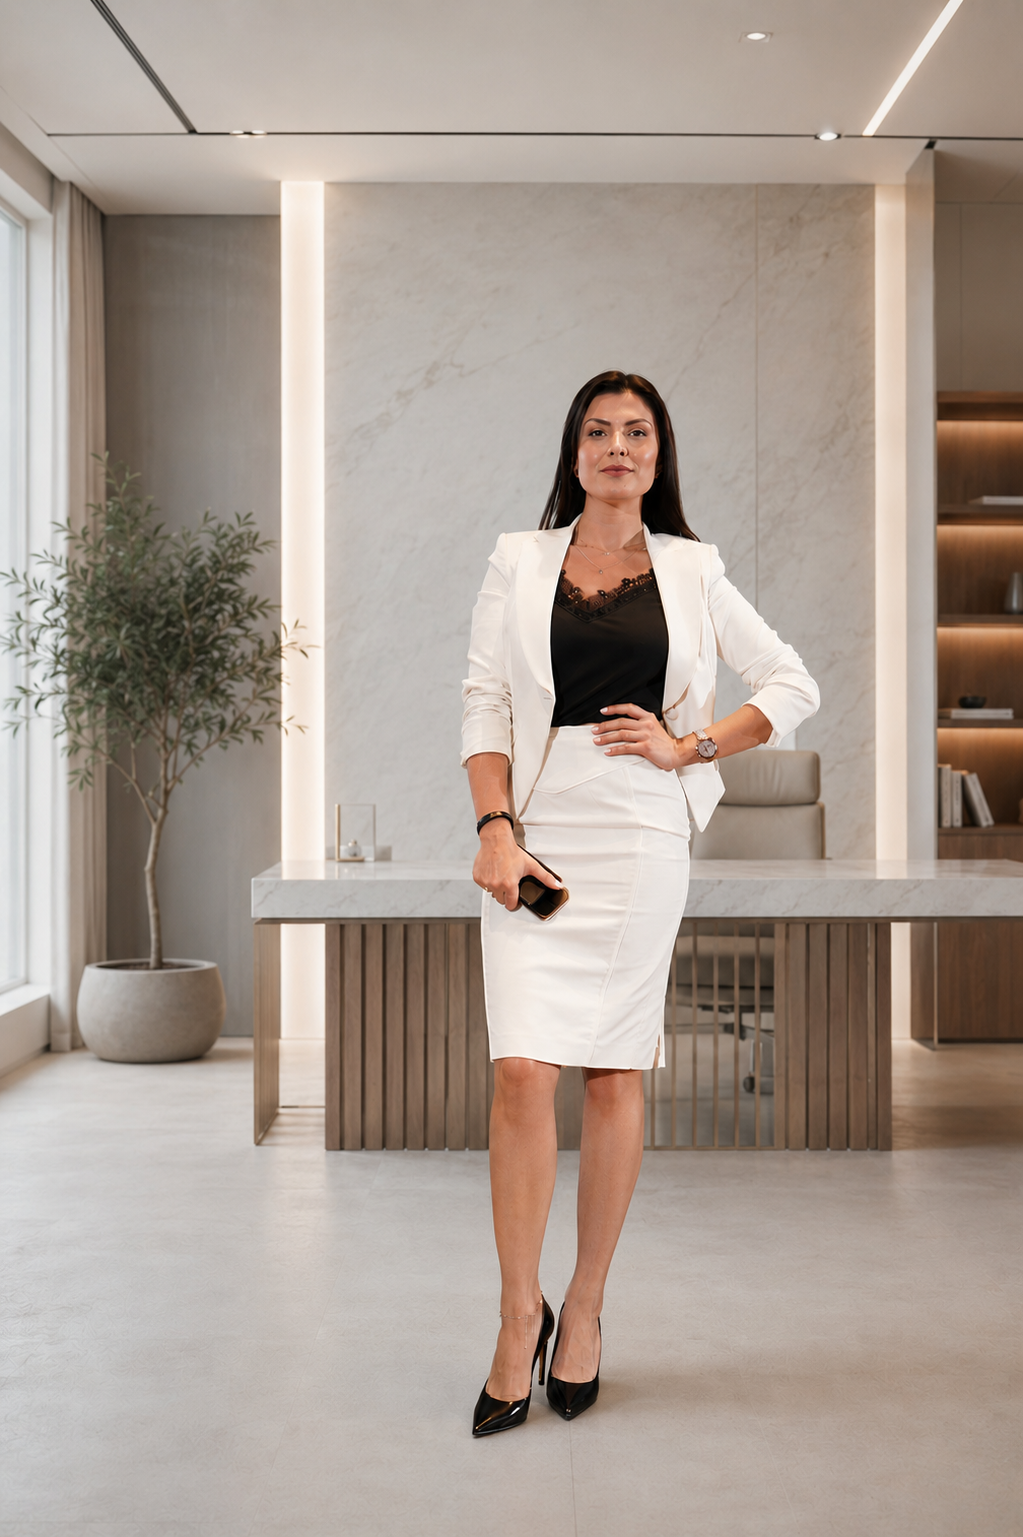
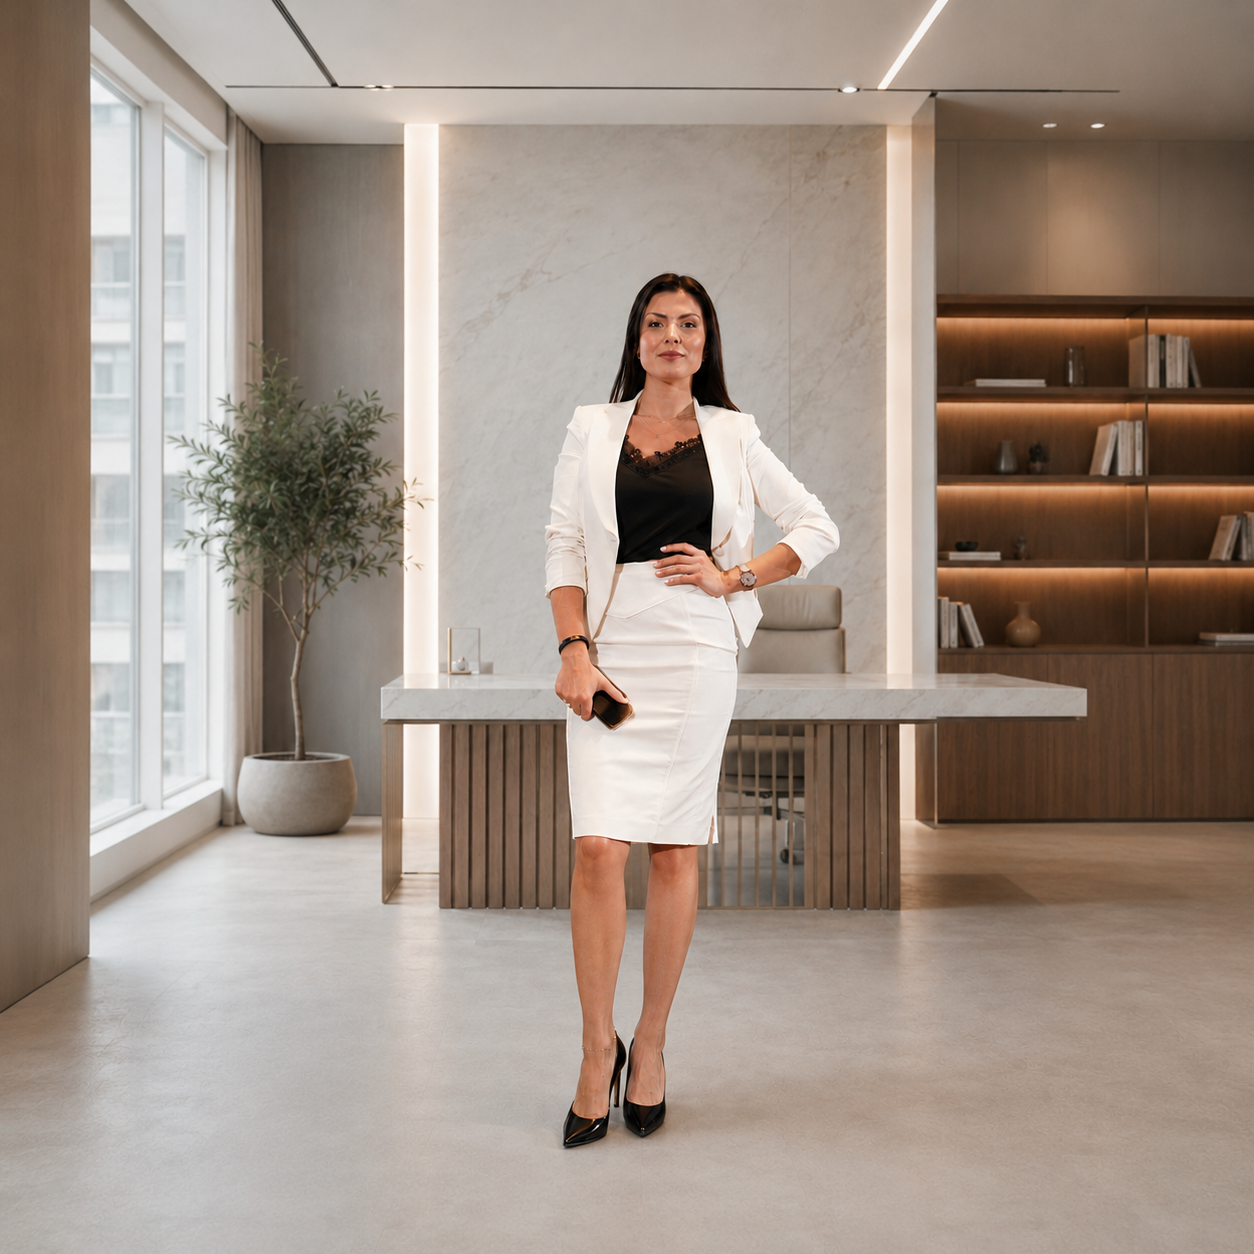
Apply client review round 2: update translations, hide eyebrows, add type images, reorder sections
- Update uk.json/en.json with all client text corrections across markets
- Add expand/collapse for About section text
- Comment out all section eyebrows (preserving for easy restore)
- Replace gradient placeholders with real property type images
- Move ParallaxCta between Services and WhySafeera
- Update parallax background image
- Remove v1.0 badge from footer
- Update Dubai dark section to 3 rows
- Add market images (types-cy, types-ge, types-ae, matt images)

diff --git a/src/components/Partners.tsx b/src/components/Partners.tsx
@@ -51,22 +51,13 @@ export default function Partners() {
         ) : (
           <div className="grid grid-cols-1 lg:grid-cols-2 gap-[clamp(40px,6vw,88px)]">
             <div>
-              <div className="eyebrow text-lime mb-[22px]">{t('partnersEyebrow')}</div>
-              <h2 className="font-cormorant font-normal text-[clamp(38px,5.2vw,72px)] leading-[1.02] tracking-[-0.015em] mb-6">
-                {t('partnersTitle')}
-              </h2>
-              <p className="text-[clamp(16px,1.15vw,18px)] leading-relaxed font-light opacity-80 max-w-[460px] mb-10">
-                {t('partnersBody')}
+              <h3 className="font-cormorant font-normal text-[clamp(38px,5.2vw,72px)] leading-[1.02] tracking-[-0.015em] mb-4">
+                {t('partnerCtaTitle')}
+              </h3>
+              <p className="text-[clamp(16px,1.15vw,18px)] leading-relaxed font-light opacity-80 max-w-[460px] mb-8">
+                {t('partnerCtaBody')}
               </p>
-              <div className="border-t border-off-white/15 pt-8">
-                <h3 className="font-cormorant font-normal text-[clamp(26px,2.4vw,36px)] leading-[1.08] tracking-[-0.01em] mb-3">
-                  {t('partnerCtaTitle')}
-                </h3>
-                <p className="text-[clamp(15px,1.1vw,17px)] leading-relaxed font-light opacity-70 max-w-[400px] mb-5">
-                  {t('partnerCtaBody')}
-                </p>
-                <a href="mailto:[email redacted]" className="text-sm opacity-70 hover:opacity-100 transition-opacity">[email redacted]</a>
-              </div>
+              <a href="mailto:[email redacted]" className="text-sm opacity-70 hover:opacity-100 transition-opacity">[email redacted]</a>
             </div>
 
             <form onSubmit={handleSubmit} noValidate className="flex flex-col gap-5">

diff --git a/src/components/About.tsx b/src/components/About.tsx
@@ -7,6 +7,7 @@ import Image from 'next/image';
 export default function About() {
   const t = useTranslations('sections');
   const [activeSlide, setActiveSlide] = useState(0);
+  const [expanded, setExpanded] = useState(false);
 
   useEffect(() => {
     const interval = setInterval(() => {
@@ -58,7 +59,7 @@ export default function About() {
 
           {/* Copy */}
           <div>
-            <div className="eyebrow mb-7">{t('aboutEyebrow')}</div>
+            {/* <div className="eyebrow mb-7">{t('aboutEyebrow')}</div> */}
             <h2 className="font-cormorant font-normal text-[clamp(38px,5.2vw,72px)] leading-[1.02] tracking-[-0.015em] mb-6">
               {t('aboutTitle')}
             </h2>
@@ -71,9 +72,20 @@ export default function About() {
               ))}
             </ul>
 
-            <p className="text-[clamp(16px,1.15vw,18px)] leading-relaxed font-light mb-4 max-w-[540px]">{t('aboutP1')}</p>
-            <p className="text-[clamp(16px,1.15vw,18px)] leading-relaxed font-light mb-4 max-w-[540px]">{t('aboutP2')}</p>
-            <p className="text-[clamp(16px,1.15vw,18px)] leading-relaxed font-light mb-4 max-w-[540px]">{t('aboutP3')}</p>
+            <p className="text-[clamp(16px,1.15vw,18px)] leading-relaxed font-light mb-4 max-w-[540px]">{t('aboutP1visible')}</p>
+            <div className={`grid transition-[grid-template-rows] duration-500 ease-out ${expanded ? 'grid-rows-[1fr]' : 'grid-rows-[0fr]'}`}>
+              <div className="overflow-hidden">
+                <p className="text-[clamp(16px,1.15vw,18px)] leading-relaxed font-light mb-4 max-w-[540px]">{t('aboutP1hidden')}</p>
+                <p className="text-[clamp(16px,1.15vw,18px)] leading-relaxed font-light mb-4 max-w-[540px]">{t('aboutP2')}</p>
+                <p className="text-[clamp(16px,1.15vw,18px)] leading-relaxed font-light mb-4 max-w-[540px]">{t('aboutP3')}</p>
+              </div>
+            </div>
+            <button
+              onClick={() => setExpanded(!expanded)}
+              className="text-[13px] font-medium tracking-[0.1em] uppercase text-forest/60 hover:text-forest transition-colors mt-1"
+            >
+              {expanded ? t('aboutCollapse') : t('aboutExpand')}
+            </button>
 
           </div>
         </div>

diff --git a/src/components/MarketPageContent.tsx b/src/components/MarketPageContent.tsx
@@ -13,6 +13,12 @@ const heroImages: Record<MarketKey, string> = {
   ae: '/images/dubai.jpg',
 };
 
+const typeImages: Record<MarketKey, string[]> = {
+  cy: ['/images/types-cy/residential.png', '/images/types-cy/branded.png', '/images/types-cy/commercial.png', '/images/types-cy/offplan.png'],
+  ge: ['/images/types-ge/batumi.png', '/images/types-ge/tbilisi.png', '/images/types-ge/commercial.png', '/images/types-ge/mountain.png'],
+  ae: ['/images/types-ae/downtown.png', '/images/types-ae/branded.png', '/images/types-ae/offplan.png', '/images/types-ae/villas.png'],
+};
+
 export default function MarketPageContent({market, hiddenMarketValue}: {market: MarketKey; hiddenMarketValue: string}) {
   const t = useTranslations(market);
   const tf = useTranslations('formClient');
@@ -56,7 +62,7 @@ export default function MarketPageContent({market, hiddenMarketValue}: {market: 
     label: t(`f${i}`),
   }));
 
-  const darkRowCountMap: Record<MarketKey, number> = {cy: 3, ge: 4, ae: 4};
+  const darkRowCountMap: Record<MarketKey, number> = {cy: 3, ge: 4, ae: 3};
   const darkRowCount = darkRowCountMap[market];
   const darkRows = Array.from({length: darkRowCount}, (_, i) => i + 1).map(i => ({
     tag: t(`d${i}tag`),
@@ -115,7 +121,7 @@ export default function MarketPageContent({market, hiddenMarketValue}: {market: 
         <div className="max-w-7xl mx-auto px-6">
           <div className="grid md:grid-cols-2 gap-12 mb-16">
             <div>
-              <div className="text-xs uppercase tracking-[0.2em] text-forest/50 mb-5">{t('whyEye')}</div>
+              {/* <div className="text-xs uppercase tracking-[0.2em] text-forest/50 mb-5">{t('whyEye')}</div> */}
               <h2 className="font-cormorant text-3xl md:text-5xl font-light text-forest">{t('whyTitle')}</h2>
             </div>
             <div className="flex items-end">
@@ -140,14 +146,14 @@ export default function MarketPageContent({market, hiddenMarketValue}: {market: 
       <section className="bg-white py-20 md:py-28">
         <div className="max-w-7xl mx-auto px-6">
           <div className="mb-12">
-            <div className="text-xs uppercase tracking-[0.2em] text-forest/50 mb-5">{t('typesEye')}</div>
+            {/* <div className="text-xs uppercase tracking-[0.2em] text-forest/50 mb-5">{t('typesEye')}</div> */}
             <h2 className="font-cormorant text-3xl md:text-5xl font-light text-forest">{t('typesTitle')}</h2>
           </div>
           <div className="grid sm:grid-cols-2 lg:grid-cols-4 gap-6">
             {types.map((tp, i) => (
               <div key={i} className="group">
-                <div className="aspect-[4/3] bg-gradient-to-br from-forest/10 to-forest/5 rounded-sm mb-4 flex items-center justify-center">
-                  <span className="text-forest/30 text-xs uppercase tracking-wider">{tp.cat}</span>
+                <div className="aspect-[4/3] rounded-sm mb-4 overflow-hidden">
+                  <img src={typeImages[market][i]} alt={tp.title} className="w-full h-full object-cover" />
                 </div>
                 <div className="text-xs uppercase tracking-wider text-forest/50 mb-1">{tp.cat}</div>
                 <h4 className="text-forest font-semibold mb-1">{tp.title}</h4>
@@ -163,7 +169,7 @@ export default function MarketPageContent({market, hiddenMarketValue}: {market: 
         <div className="max-w-7xl mx-auto px-6">
           <div className="grid md:grid-cols-2 gap-16">
             <div>
-              <div className="text-xs uppercase tracking-[0.2em] text-lime mb-5">{t('darkEye')}</div>
+              {/* <div className="text-xs uppercase tracking-[0.2em] text-lime mb-5">{t('darkEye')}</div> */}
               <h2 className="font-cormorant text-3xl md:text-5xl font-light mb-6">{t('darkTitle')}</h2>
               <p className="text-white/70 font-light leading-relaxed">{t('darkBody')}</p>
               {market === 'ge' && (
@@ -192,7 +198,7 @@ export default function MarketPageContent({market, hiddenMarketValue}: {market: 
         <div className="max-w-7xl mx-auto px-6">
           <div className="grid md:grid-cols-2 gap-16">
             <div>
-              <div className="text-xs uppercase tracking-[0.2em] text-forest/50 mb-5">{t('formEye')}</div>
+              {/* <div className="text-xs uppercase tracking-[0.2em] text-forest/50 mb-5">{t('formEye')}</div> */}
               <h2 className="font-cormorant text-3xl md:text-5xl font-light text-forest mb-6">{t('formTitle')}</h2>
               <p className="text-forest/70 text-lg font-light mb-8">{t('formBody')}</p>
               <div className="space-y-2">

diff --git a/src/components/Markets.tsx b/src/components/Markets.tsx
@@ -17,7 +17,7 @@ export default function Markets() {
       <div className="max-w-[1440px] mx-auto">
         <div className="grid grid-cols-1 lg:grid-cols-2 gap-10 mb-[clamp(48px,6vw,80px)] items-end">
           <div>
-            <div className="eyebrow mb-[22px]">{t('sections.marketsEyebrow')}</div>
+            {/* <div className="eyebrow mb-[22px]">{t('sections.marketsEyebrow')}</div> */}
             <h2 className="font-cormorant font-normal text-[clamp(38px,5.2vw,72px)] leading-[1.02] tracking-[-0.015em]">
               {t('sections.marketsTitle')}
             </h2>
@@ -46,9 +46,9 @@ export default function Markets() {
               <div className="absolute inset-0 bg-black/30 group-hover:bg-black/60 transition-all duration-500" />
 
               {/* Index + Flag */}
-              <span className="absolute top-5 left-5 text-[10px] tracking-[0.22em] uppercase text-white/50 z-10">
+              {/* <span className="absolute top-5 left-5 text-[10px] tracking-[0.22em] uppercase text-white/50 z-10">
                 {market.index} / Market
-              </span>
+              </span> */}
               <span className="absolute top-5 right-5 text-[11px] tracking-[0.18em] uppercase text-white/70 font-medium z-10">
                 {market.flag}
               </span>

diff --git a/src/components/ClientForm.tsx b/src/components/ClientForm.tsx
@@ -10,7 +10,7 @@ export default function ClientForm() {
   const [loading, setLoading] = useState(false);
   const [selectedMarket, setSelectedMarket] = useState(0);
 
-  const markets = [t('market1'), t('market2'), t('market3'), t('market4')];
+  const markets = [t('market1'), t('market2'), t('market3'), t('market4'), t('market5')];
 
   async function handleSubmit(e: React.FormEvent<HTMLFormElement>) {
     e.preventDefault();
@@ -56,7 +56,7 @@ export default function ClientForm() {
     <section id="client-form-section" className="bg-white text-forest py-[clamp(72px,9vw,140px)] px-[clamp(20px,5vw,80px)]">
       <div className="max-w-[1440px] mx-auto grid grid-cols-1 lg:grid-cols-2 gap-[clamp(40px,6vw,88px)]">
         <div>
-          <div className="eyebrow mb-[22px]">{ts('clientFormEyebrow')}</div>
+          {/* <div className="eyebrow mb-[22px]">{ts('clientFormEyebrow')}</div> */}
           <h2 className="font-cormorant font-normal text-[clamp(38px,5.2vw,72px)] leading-[1.02] tracking-[-0.015em] mb-6">
             {ts('clientFormTitle')}
           </h2>

diff --git a/src/components/Footer.tsx b/src/components/Footer.tsx
@@ -43,9 +43,8 @@ export default function Footer() {
         </div>
       </div>
 
-      <div className="border-t border-off-white/10 pt-6 flex flex-col sm:flex-row justify-between items-center gap-4 text-[11px] opacity-40 tracking-[0.06em]">
+      <div className="border-t border-off-white/10 pt-6 flex justify-center items-center gap-4 text-[11px] opacity-40 tracking-[0.06em]">
         <span>{t('copy')}</span>
-        <span>v1.0 · 2026</span>
       </div>
     </footer>
   );

diff --git a/src/app/[locale]/page.tsx b/src/app/[locale]/page.tsx
@@ -17,8 +17,8 @@ export default function HomePage() {
       <About />
       <Markets />
       <Services />
-      <WhySafeera />
       <ParallaxCta />
+      <WhySafeera />
       <MidsiteVideo />
       <Partners />
       <ClientForm />

diff --git a/src/components/ParallaxCta.tsx b/src/components/ParallaxCta.tsx
@@ -10,7 +10,7 @@ export default function ParallaxCta() {
       {/* Parallax background */}
       <div
         className="absolute inset-0 bg-fixed bg-center bg-cover"
-        style={{backgroundImage: 'url(/images/parallax.jpg)'}}
+        style={{backgroundImage: 'url(/images/parallax-cta.png)'}}
       />
       <div className="absolute inset-0 bg-black/50" />
 

diff --git a/src/components/Services.tsx b/src/components/Services.tsx
@@ -11,7 +11,7 @@ export default function Services() {
     <section id="services" className="bg-white text-forest py-[clamp(72px,9vw,140px)] px-[clamp(20px,5vw,80px)]">
       <div className="max-w-[1440px] mx-auto">
         <div className="mb-[clamp(48px,6vw,80px)]">
-          <div className="eyebrow mb-[22px]">{ts('servicesEyebrow')}</div>
+          {/* <div className="eyebrow mb-[22px]">{ts('servicesEyebrow')}</div> */}
           <h2 className="font-cormorant font-normal text-[clamp(38px,5.2vw,72px)] leading-[1.02] tracking-[-0.015em] max-w-[800px]">
             {ts('servicesTitle')}
           </h2>

diff --git a/src/components/WhySafeera.tsx b/src/components/WhySafeera.tsx
@@ -10,7 +10,7 @@ export default function WhySafeera() {
     <section id="why" className="bg-forest text-off-white py-[clamp(72px,9vw,140px)] px-[clamp(20px,5vw,80px)]">
       <div className="max-w-[1440px] mx-auto">
         <div className="mb-[clamp(48px,6vw,80px)]">
-          <div className="eyebrow text-lime mb-[22px]">{ts('whyEyebrow')}</div>
+          {/* <div className="eyebrow text-lime mb-[22px]">{ts('whyEyebrow')}</div> */}
           <h2 className="font-cormorant font-normal text-[clamp(38px,5.2vw,72px)] leading-[1.02] tracking-[-0.015em]">
             {ts('whyTitle')}
           </h2>